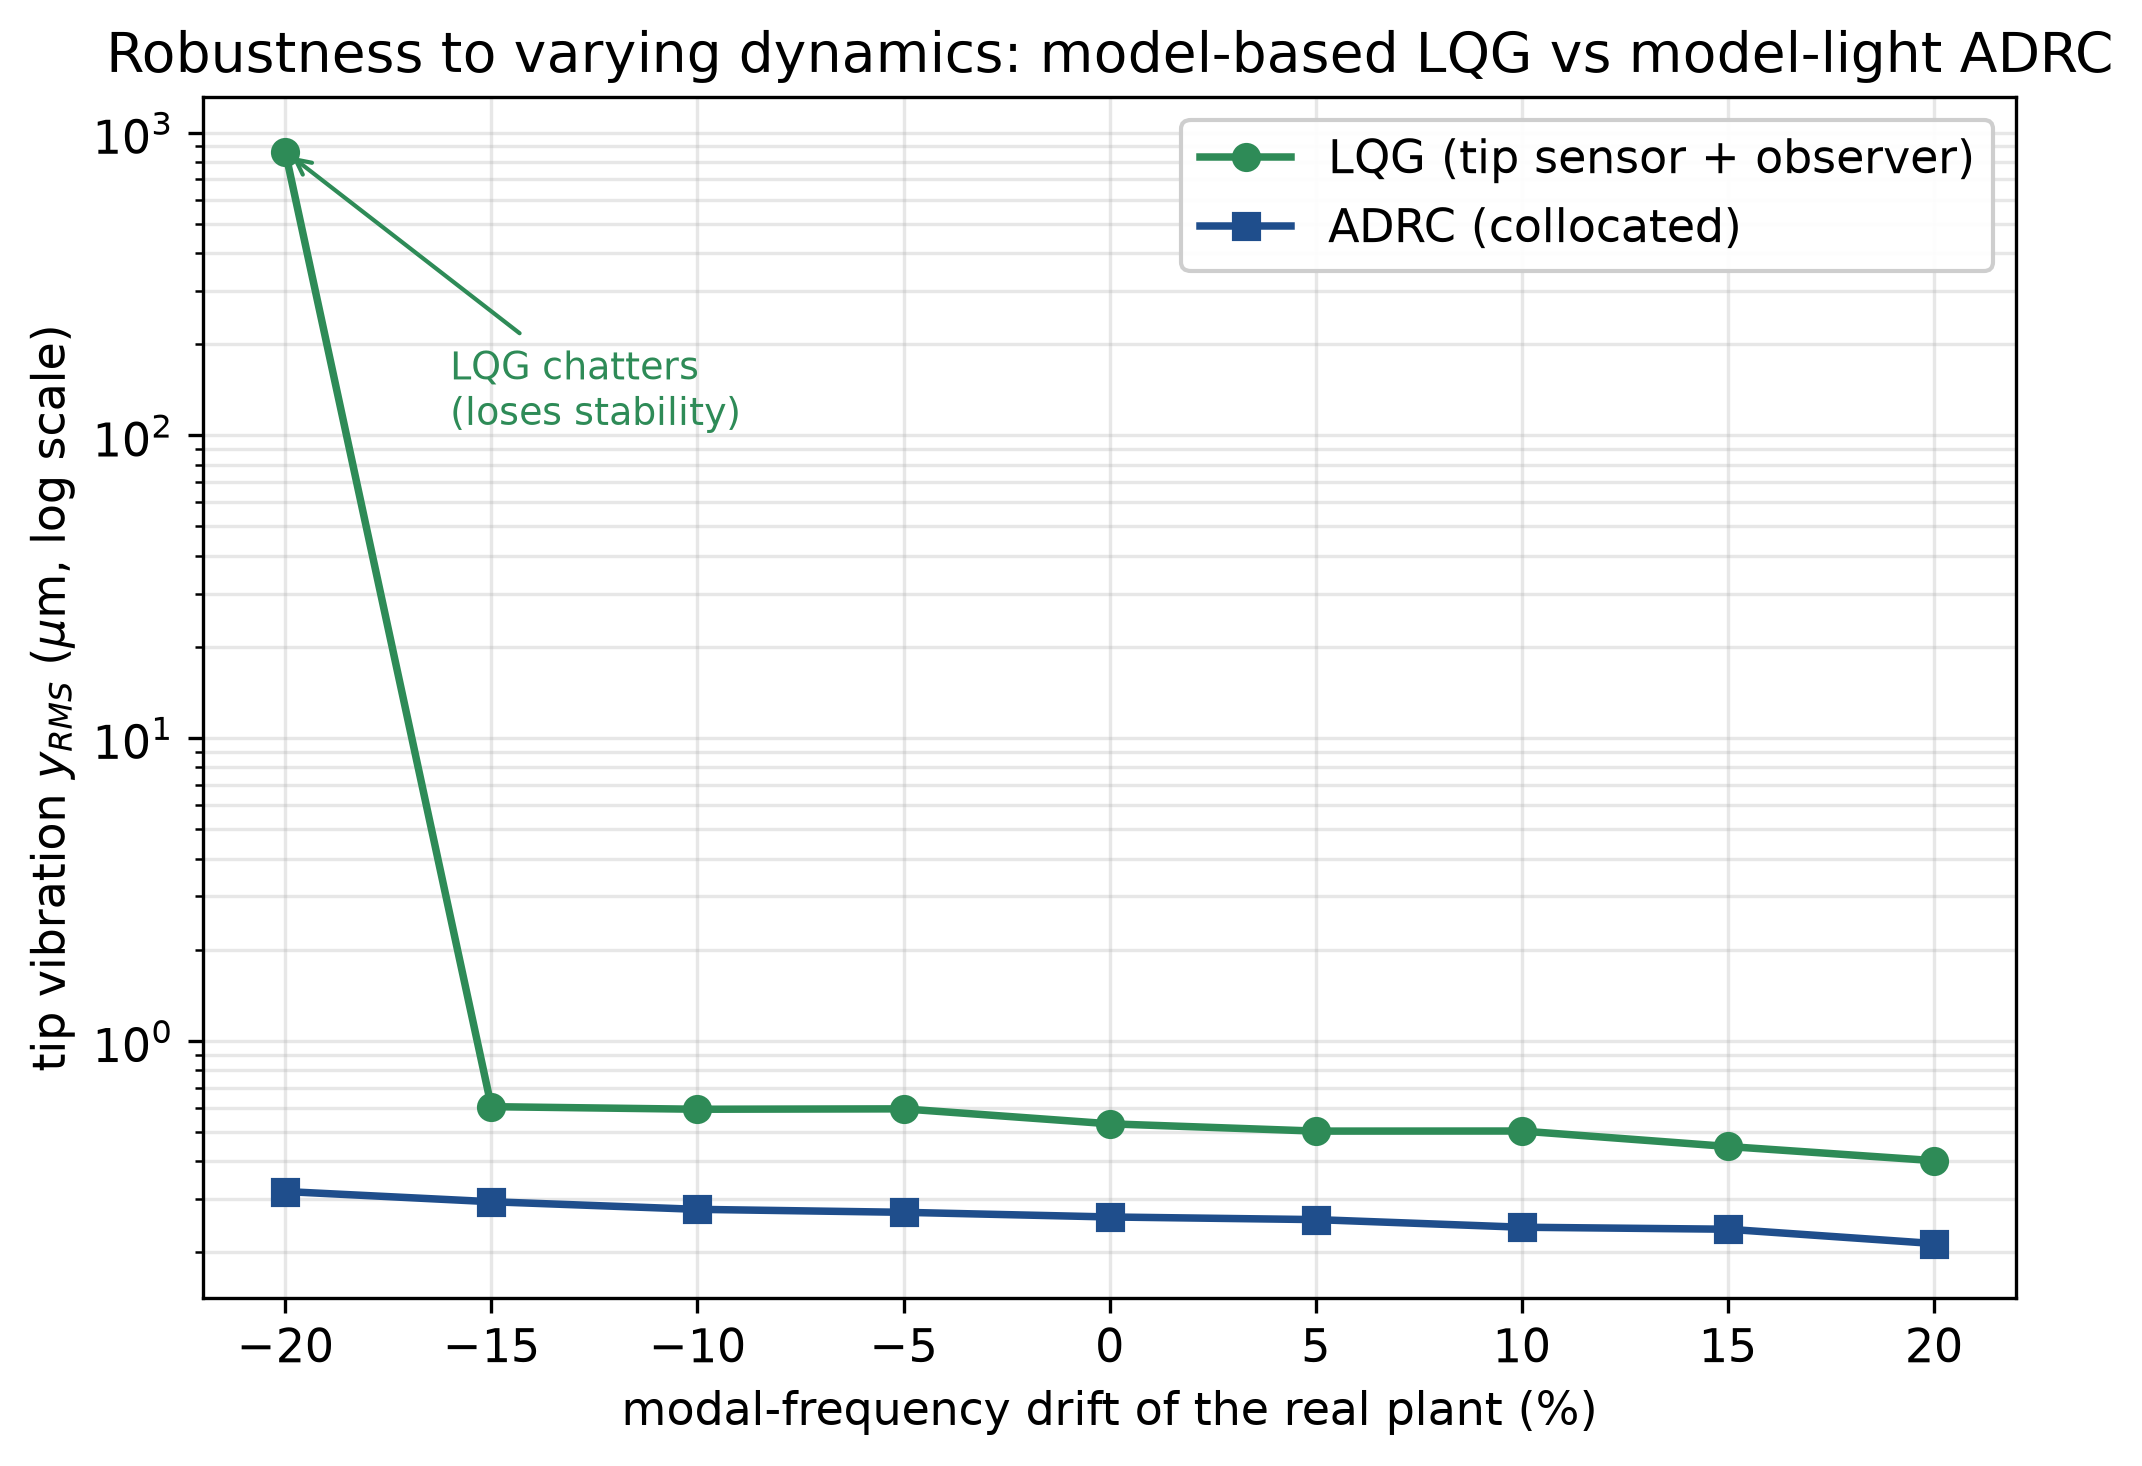
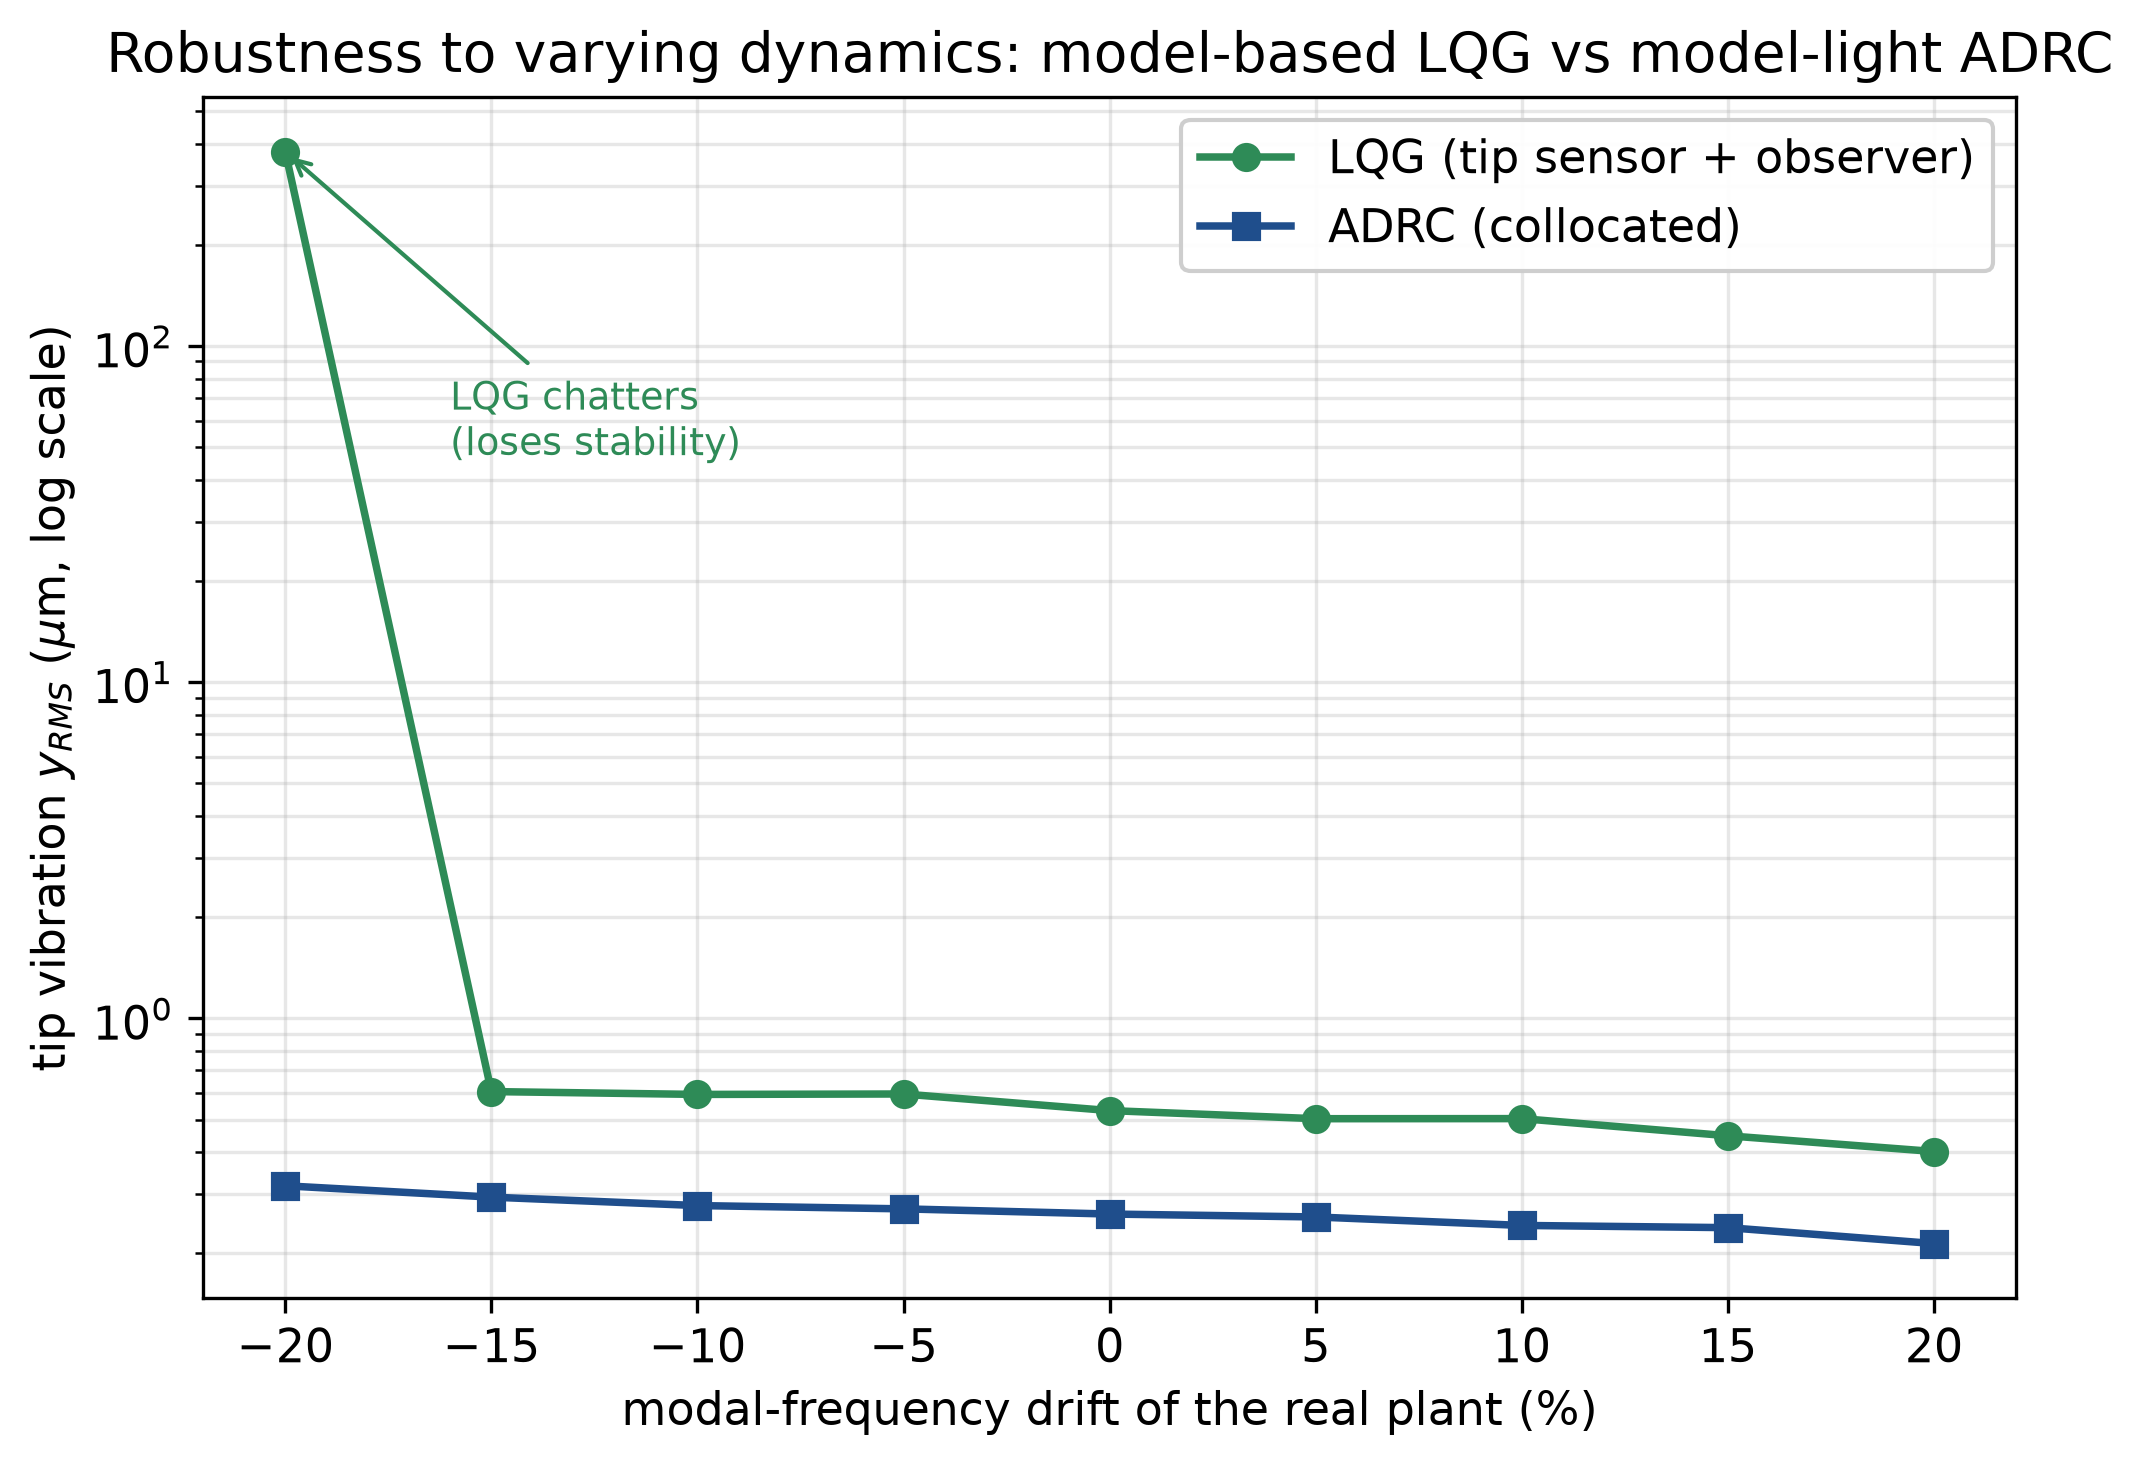
Enforce actuator saturation on LQG + symmetric feasible-metric tuning (verification fixes)
Fixes from the adversarial verification of the placement co-design study:

- lqg_controller.py: LQGController.step now saturates at +/-150 V (u_max
  param, physical default), matching every other controller. The previous
  "voltage-feasible 1.38 mm" for LQG had been computed with an unsaturated
  actuator commanding 231 V at that depth -- violating the metric's own
  definition (the bug favored the baseline: truly saturated default-weights
  LQG reaches only 1.29 mm).
- placement_study.py: the LQG baseline now receives the same treatment as
  ADRC -- a weight search selected UNDER the voltage-feasible metric,
  including an aggressive design outside the conventional gain-norm cap
  (results: default 1.29, w_q=1e12 1.02, w_q=1e16 1.38 mm; best 1.38).
  Headline unchanged and now symmetric: ADRC 1.92 mm vs best saturated LQG
  1.38 mm (+39%; +49% vs the conventionally-tuned LQG).
- Robustness sweep re-run with saturated LQG: the -20% drift chatter point
  is 379 um (was 865 um unsaturated); conclusion unchanged.
- Manuscript: sign-viability wording corrected (screening heuristic, not a
  sufficient rule -- one mixed-sign placement is viable, three sign-viable
  ones collapse); Spearman rho = -0.4 flagged as descriptive (n=5);
  sec 3.5/4.6 state the symmetric saturated protocol explicitly.

Claude-Session: https://claude.ai/code/session_01Apyd59jyrC6eVxQvhMxSzw

diff --git a/experiments/placement_study.py b/experiments/placement_study.py
@@ -169,17 +169,37 @@ def stageB(linear_rows, quick=False):
               f"feasible={best['feasible']*1e3:.2f} mm  tune={best['tune']} "
               f"[{time.time()-t0:.0f}s]")
 
-    # LQG baseline feasible depth (original placement, tip sensor)
-    def mk_lqg():
+    # LQG baseline feasible depth (original placement, tip sensor).
+    # Fairness: LQG is saturated at +/-150 V exactly like ADRC, and its weights
+    # are searched UNDER THE FEASIBLE METRIC (same treatment as ADRC's
+    # bandwidth grid), including an aggressive design outside the usual
+    # gain-norm cap -- so the baseline is the best LQG we could find.
+    lqg_weight_grid = [("grid-default", None),
+                       ("w_q=1e12,w_qd=1e8", (1e12, 1e8)),
+                       ("w_q=1e16,w_qd=1e8", (1e16, 1e8))]
+
+    def mk_lqg(weights):
         p = build(0.0, 0.0, sensor_tip=True)
-        l = LQGController(p, dt=DT, verbose=False)
-        l.optimize_weights(w_q_list=[1e10, 1e12, 1e14, 1e16],
-                           w_qd_list=[1e4, 1e6, 1e8], w_r=1.0)
+        l = LQGController(p, dt=DT, verbose=False, u_max=U_MAX)
+        if weights is None:
+            l.optimize_weights(w_q_list=[1e10, 1e12, 1e14, 1e16],
+                               w_qd_list=[1e4, 1e6, 1e8], w_r=1.0)
+        else:
+            l.optimize_weights(w_q_list=[weights[0]], w_qd_list=[weights[1]],
+                               w_r=1.0, gain_norm_max=1e12)
         l.discretize_observer()
         return l
-    f_lqg = feasible_depth(mk_lqg, lambda: build(0.0, 0.0, sensor_tip=True))
-    print(f"  LQG baseline (orig placement): feasible = {f_lqg*1e3:.2f} mm")
-    return out, f_lqg * 1e3
+
+    lqg_rows = []
+    for label, weights in lqg_weight_grid:
+        f = feasible_depth(lambda w=weights: mk_lqg(w),
+                           lambda: build(0.0, 0.0, sensor_tip=True))
+        lqg_rows.append(dict(label=label, feasible_mm=f * 1e3))
+        print(f"  LQG ({label}, saturated): feasible = {f*1e3:.2f} mm")
+    f_lqg = max(r["feasible_mm"] for r in lqg_rows)
+    print(f"  LQG baseline (best of {len(lqg_rows)} weight configs): "
+          f"feasible = {f_lqg:.2f} mm")
+    return out, f_lqg, lqg_rows
 
 
 if __name__ == "__main__":
@@ -188,12 +208,15 @@ if __name__ == "__main__":
     args = ap.parse_args()
     T = time.time()
     rows = stageA(quick=args.quick)
-    feas, f_lqg = stageB(rows, quick=args.quick)
+    feas, f_lqg, lqg_rows = stageB(rows, quick=args.quick)
     result = dict(linear_map=rows, feasible=feas, lqg_feasible_mm=f_lqg,
+                  lqg_weight_search=lqg_rows,
                   u_max=U_MAX, rpm=RPM, patch_size_mm=[PW * 1e3, PH * 1e3],
                   note=("Linear a_p,crit uses CL-SD with the ESO in the monodromy; "
-                        "feasible a_p uses saturated nonlinear time-domain bisection "
-                        "(chatter = divergence or steady tip RMS > 50 um). "
+                        "feasible a_p uses saturated (+/-150 V on BOTH controllers) "
+                        "nonlinear time-domain bisection (chatter = divergence or "
+                        "steady tip RMS > 50 um). LQG weights are searched under "
+                        "the same feasible metric as ADRC's bandwidths. "
                         "The two metrics rank placements differently: design must "
                         "use the feasible metric."))
     json.dump(result, open(os.path.join(RESULTS, "placement.json"), "w"), indent=2)

diff --git a/src/lqg_controller.py b/src/lqg_controller.py
@@ -18,15 +18,20 @@ class LQGController:
         y = C x + v
     """
 
-    def __init__(self, plate, dt: float, verbose: bool = True):
+    def __init__(self, plate, dt: float, verbose: bool = True,
+                 u_max: float = 150.0):
         """
         plate : instance de PlateModel (avec D_obs et H_Pe_modal calculés).
+        u_max : saturation de l'actionneur piezo [V] (physique: +/-150 V).
+                La commande est ecretee dans step(), comme pour les autres
+                controleurs; passer None pour l'ancien comportement non sature.
         """
         self.plate = plate
         self.dt = dt
         self.verbose = verbose
         self.n_modes = plate.n_modes
         self.n_x = 2 * plate.n_modes
+        self.u_max = u_max
 
         self._build_state_space()
         self._design_kalman()
@@ -169,8 +174,10 @@ class LQGController:
 
     # ---------------------------------------------------------------
     def step(self, x_hat_prev, u_prev, y_meas):
-        """Une itération de l'observateur Kalman + commande LQR."""
+        """Une itération de l'observateur Kalman + commande LQR (saturée)."""
         x_hat = self.A_obs_d @ x_hat_prev + self.G_u.flatten() * u_prev \
               + self.G_y.flatten() * y_meas
         u = float(np.squeeze(-self.K_lqr @ x_hat))
+        if self.u_max is not None:
+            u = float(np.clip(u, -self.u_max, self.u_max))
         return x_hat, u

diff --git a/paper/manuscript.md b/paper/manuscript.md
@@ -178,8 +178,11 @@ therefore evaluate every candidate design with a two-stage metric
 2. **Feasible stage (honest):** the *voltage-feasible critical depth*
    a_p,feas -- the largest depth at which the saturated nonlinear time-domain
    loop stays chatter-free (divergence or steady tip RMS > 50 um counts as
-   chatter) -- found by bisection over full Newmark simulations, with the ADRC
-   bandwidths re-selected under this metric.
+   chatter) -- found by bisection over full Newmark simulations.  The +/-150 V
+   saturation is enforced on *every* controller, and each controller's design
+   parameters are re-selected under this metric: ADRC over a bandwidth grid,
+   and the LQG baseline over a weight grid that includes an aggressive design
+   outside the conventional gain-norm cap.
 
 The co-design study slides the 20 x 60 mm patch (with its collocated corner
 sensor) over a 5 x 3 position grid on the plate and applies both stages.
@@ -236,8 +239,8 @@ adds damping; hence the large, consistent reduction, achieved well within the
 Both controllers are designed on the nominal plant; the real plant's modal
 frequencies are then drifted (Fig. 2). ADRC keeps the tip RMS between 0.21 and
 0.32 um across a +/-20 % drift. LQG stays near 0.5 um for small drifts but **loses
-stability at -20 % (tip RMS 865 um -- chatter)**, because its fixed model is now
-wrong. This is the practical statement of ADRC's model-independence and directly
+stability at -20 % (tip RMS 379 um at the +/-150 V saturation -- chatter)**,
+because its fixed model is now wrong. This is the practical statement of ADRC's model-independence and directly
 addresses the varying-dynamics challenge emphasised by [1].
 
 ### 4.4 Role of the feedforward (2-DOF)
@@ -260,11 +263,14 @@ aid, not an operating envelope.
 
 ### 4.6 Placement co-design: the two metrics rank in opposite order
 
-Of the 15 candidate patch positions, 10 are sign-infeasible for a single-b0 ADRC
-(mixed-sign modal coupling makes the collocated map non-minimum-phase and the
-loop unstabilisable at any tested bandwidth) -- the sign-viability rule alone
-partitions the plate into "allowed" and "forbidden" placement regions (Fig. 6a).
-For the five viable placements the two metrics give (Fig. 6b):
+Of the 15 candidate patch positions, 10 collapse for the single-b0 ADRC at every
+tested bandwidth, and all 10 have mixed-sign modal coupling c_i * H_pe,i
+(Fig. 6a).  The sign structure is a useful *screening heuristic* rather than a
+sufficient rule: one mixed-sign placement (0, 10) remains viable because the
+wrong-signed mode is fast and heavily filtered, and three placements whose first
+two modes are correctly signed still collapse; the operative partition is the
+CL-SD result itself.  For the five viable placements the two metrics give
+(Fig. 6b):
 
 | Patch (x0, z0) mm | linear CL-SD boundary | voltage-feasible depth |
 |---|---:|---:|
@@ -274,7 +280,9 @@ For the five viable placements the two metrics give (Fig. 6b):
 | (0, 0) *(original)* | 3.24 mm (rank 4) | **1.92 mm** (**rank 1**) |
 | (80, 0)  | 2.37 mm (rank 5) | 1.11 mm (rank 4) |
 
-The rankings are anti-correlated (Spearman rho = -0.4).  The mechanism is
+The rankings are descriptively anti-correlated (Spearman rho = -0.4; n = 5, so
+this is reported as an observation on this benchmark, not a significance
+claim).  The mechanism is
 plain: weakly-coupled placements (small |b0|) tolerate the delay well in the
 linear analysis but need proportionally more voltage to reject the same cutting
 disturbance, so the +/-150 V wall arrives much earlier; strongly-coupled
@@ -284,13 +292,16 @@ therefore unsafe, even when the analysis honestly includes the controller and
 its observer.**  Under the honest metric the original placement of [1] is in
 fact near-optimal, and the feasible headline comparison at identical hardware is
 
-| Controller (original placement) | voltage-feasible depth |
+| Controller (original placement, both saturated at +/-150 V) | voltage-feasible depth |
 |---|---:|
-| LQG (tip sensor + Kalman observer) | 1.38 mm |
+| LQG (tip sensor + Kalman observer; best of a weight search under the feasible metric, incl. an aggressive design outside the gain-norm cap) | 1.38 mm |
 | **ADRC (collocated, wc=1800, wo=21600)** | **1.92 mm (+39 %)** |
 
 confirmed by 0.5 s saturated simulations (ADRC stable at 1.8 mm, chatter at
-2.1 mm; LQG stable at 1.3 mm, chatter at 1.5 mm).
+2.1 mm; LQG stable at 1.3 mm at 133 V peak, chatter at 1.5 mm).  With the
+conventional (linearly-tuned) LQG weights the saturated feasible depth is
+1.29 mm, i.e. the +39 % is measured against the *best* saturated LQG found, not
+the default one (+49 % against the default).
 
 ### 4.7 Augmentations: honest negative results
 
